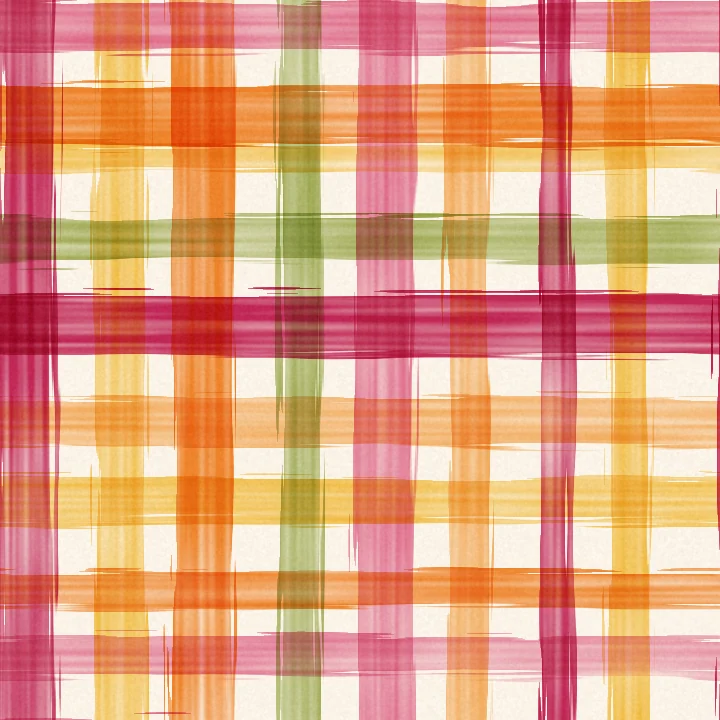
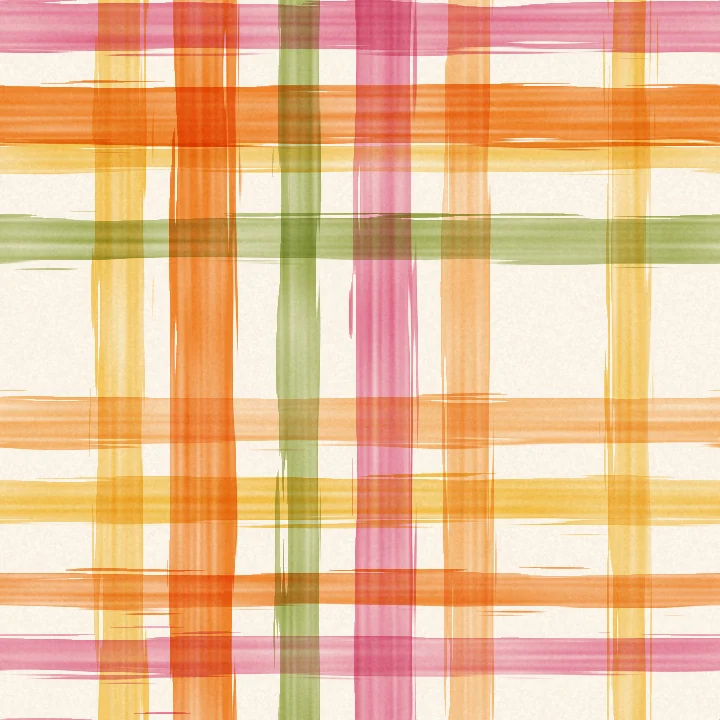
Nappe sans bandes violettes, textes corrigés

diff --git a/index.html b/index.html
@@ -45,7 +45,7 @@
       rgba(240, 138, 58, .46) 78px 104px, transparent 104px 130px,
       rgba(243, 190, 72, .50) 130px 156px, transparent 156px 182px,
       rgba(150, 172, 80, .44) 182px 208px;
-    --nappe: url("assets/img/nappe.webp?v=14");
+    --nappe: url("assets/img/nappe.webp?v=16");
   }
 
   * { box-sizing: border-box; }
@@ -118,6 +118,8 @@
   .histoire__sous { margin: 0 0 12px; font-size: 1.05rem; letter-spacing: .14em; color: var(--vert); font-variant: small-caps; }
   .histoire p:not([class]) { margin: 0 0 .7em; }
   .histoire__date { margin: 0 0 6px; font-size: 1.2rem; font-style: italic; line-height: 1.5; text-wrap: balance; }
+  .mobile-seul { display: none; }
+  @media (max-width: 899px) { .mobile-seul { display: inline; } }
   .histoire__suite { margin: 10px 0 0; font-family: var(--script); font-size: 1.8rem; line-height: 1.2; color: var(--rose); }
 
   /* ---------- Menu déroulant ---------- */
@@ -433,8 +435,8 @@
 
     <section class="histoire">
       <svg class="vague" viewBox="0 0 96 22" aria-hidden="true"><path d="M3 7 C 15 1, 27 13, 39 7 S 63 1, 75 7 S 90 11, 93 8" stroke="#D62F6A"/><path d="M3 12 C 15 6, 27 18, 39 12 S 63 6, 75 12 S 90 16, 93 13" stroke="#EE8A1F"/><path d="M3 17 C 15 11, 27 23, 39 17 S 63 11, 75 17 S 90 21, 93 18" stroke="#6E8A3A"/></svg>
-      <p class="histoire__date">Le 17 mars 2026, nos chemins se sont croisés, et depuis, c’est une évidence…</p>
-      <p class="histoire__suite">Et maintenant, place à la suite !</p>
+      <p class="histoire__date">Le 17 mars 2016, nos chemins se sont croisés, et depuis, c’est une évidence…</p>
+      <p class="histoire__suite">Et maintenant,<br class="mobile-seul"> place à la suite !</p>
     </section>
 
   </header>
@@ -445,7 +447,7 @@
   <details id="reponse">
     <summary>Je confirme ma présence</summary>
     <div class="volet">
-      <p class="note">Une réponse par personne : si vous venez à deux, remplissez le formulaire deux fois.</p>
+      <p class="note">Une réponse par personne : si vous venez à plusieurs, remplissez le formulaire plusieurs fois.</p>
       <form id="form-reponse" novalidate>
         <div class="form__colonne">
           <div class="champ">
@@ -530,7 +532,7 @@
         <div class="etape__texte">
           <span class="etape__heure">14h30</span>
           <span class="etape__titre">Brunch et soirée</span>
-          <span class="etape__lieu">Journée blanche au Set Lounge, à <span class="insecable">Azurara<span class="nuancier" aria-hidden="true"><i style="--c:#FFFFFF"></i><i style="--c:#FDFAF2"></i><i style="--c:#F8F1E1"></i></span></span></span>
+          <span class="etape__lieu">au Set Lounge, thème couleur : <span class="insecable">journée blanche<span class="nuancier" aria-hidden="true"><i style="--c:#FFFFFF"></i><i style="--c:#FDFAF2"></i><i style="--c:#F8F1E1"></i></span></span></span>
           <address>Rua do Gaiato 431, 4480-179 Azurara (Vila do Conde)</address>
           <a class="itineraire" href="https://www.google.com/maps/search/?api=1&amp;query=Set+Lounge%2C+Rua+do+Gaiato+431%2C+4480-179+Azurara" target="_blank" rel="noopener">Ouvrir l'itinéraire</a>
         </div>
@@ -574,7 +576,7 @@
   <svg class="filet" viewBox="0 0 600 14" preserveAspectRatio="none" aria-hidden="true"><path d="M2 6 C 140 11, 250 2, 360 8 S 520 10, 598 5" fill="none" stroke="currentColor" stroke-width="1.6" stroke-linecap="round" vector-effect="non-scaling-stroke"/></svg>
 
   <footer class="pied">
-    <img src="assets/img/porto-photo.webp?v=15" width="1774" height="887" alt="Porto au bord du Douro : les maisons colorées de la Ribeira, le pont Dom-Luís et des bateaux rabelos" loading="lazy">
+    <img src="assets/img/porto-photo.webp?v=16" width="1774" height="887" alt="Porto au bord du Douro : les maisons colorées de la Ribeira, le pont Dom-Luís et des bateaux rabelos" loading="lazy">
   </footer>
 </main>
 
